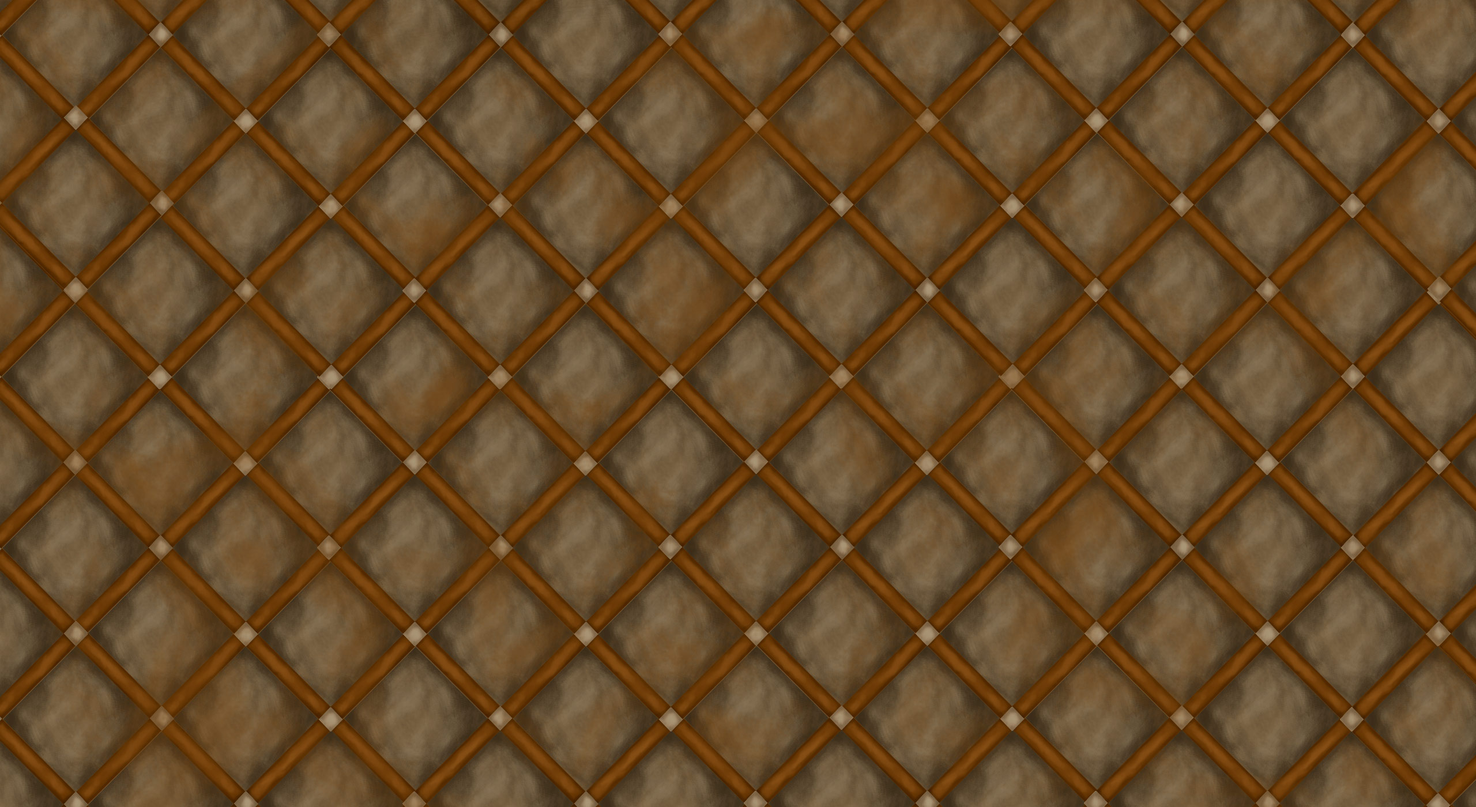
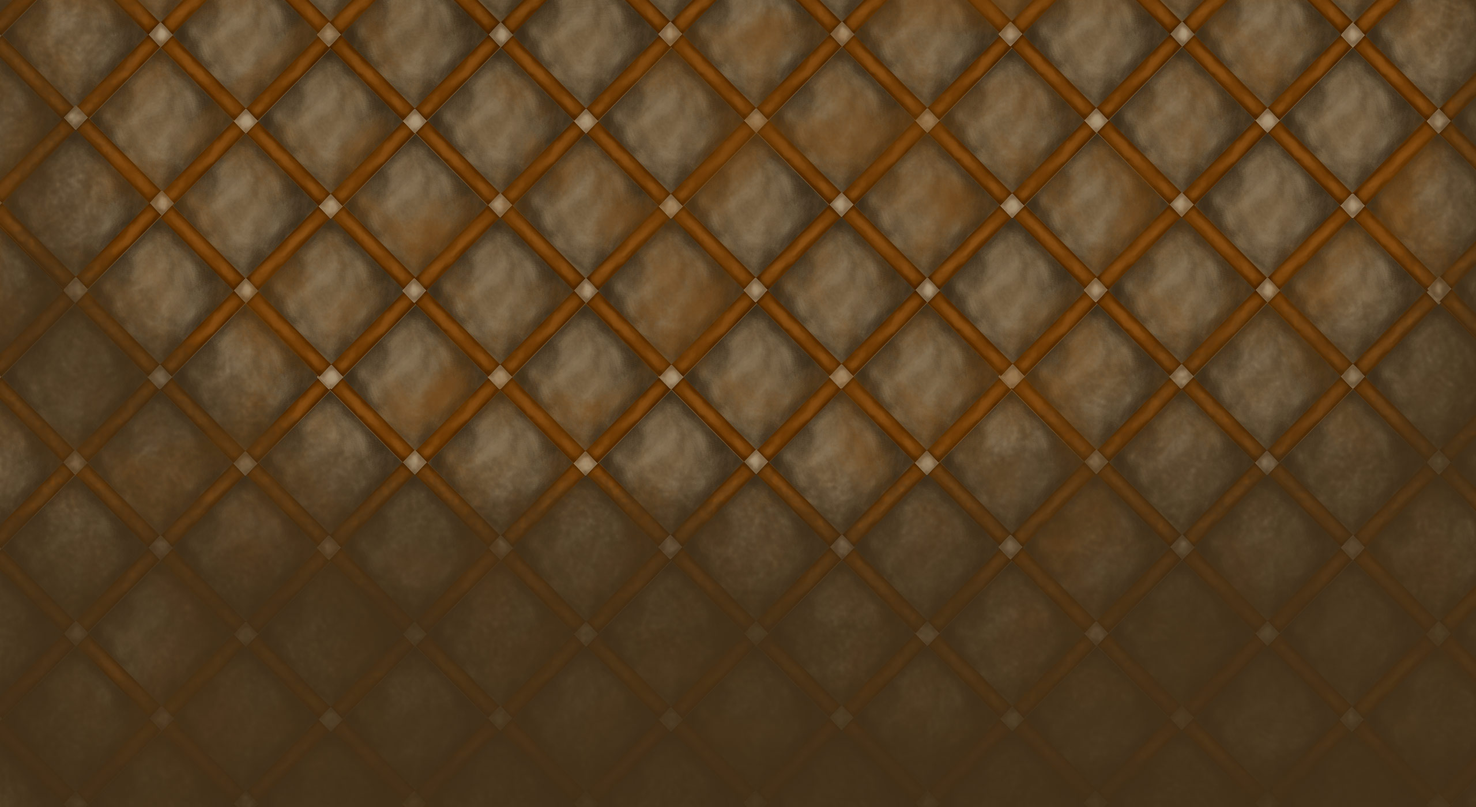
fix assets

Changed region(s): [[0.0, 0.1843, 1.0, 1.0], [0.0, 0.0614, 0.0312, 0.0921]]

diff --git a/src/setup.ts b/src/setup.ts
@@ -69,15 +69,15 @@ export default function Load() {
             brushs_sketch: 'room/scene_01_esquisse_pinceaux_v01.png',
             back_paintings: 'room/scene_01_toile_fond_v01.png',
             status: 'room/scene_01_statue_fond_v02.png',
-            rubens_sketch: 'interactive/rubens_esquisse.png',
+            rubens_sketch: 'interactive/rubens_esquisse.jpg',
             rubens_painting: 'interactive/rubens.png',
             peace_painting: 'room/elisabeth_peinture_v01.jpg',
             peace_sketch: 'room/elisabeth_v01.jpg',
             magnifying_glass: 'loupe.png',
             jp_lebrun: 'room/Jean-Baptiste-Pierre_Le_Brun_1796.jpg',
-            jp_lebrun_sketch: 'room/cadre_droite_v01.jpg',
+            jp_lebrun_sketch: 'room/cadre_droite_v02.jpg',
 
-            front_wall_2: 'room2/mur_face_4.jpg',
+            front_wall_2: 'room2/mur_face_5.jpg',
             left_wall_2: 'room2/mur_gauche.jpg',
             right_wall_2: 'room2/mur_droite.jpg',
             floor_2: 'room2/sol.jpg',
